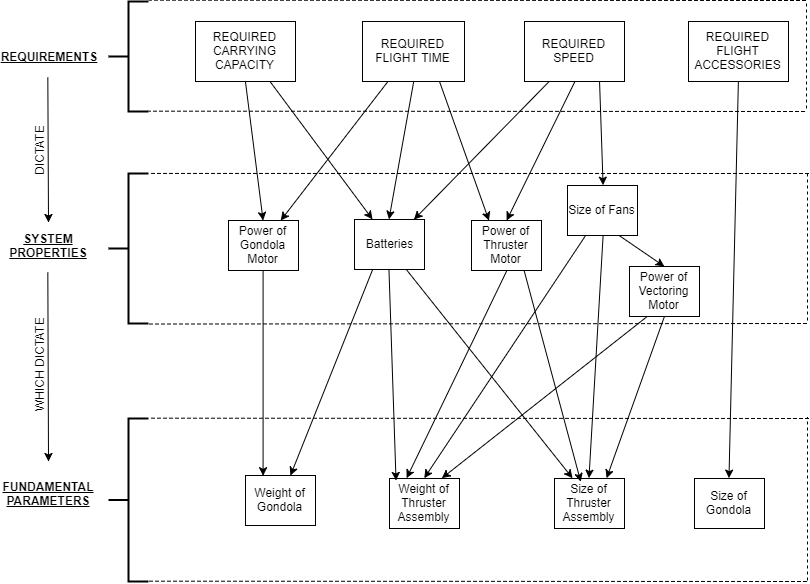
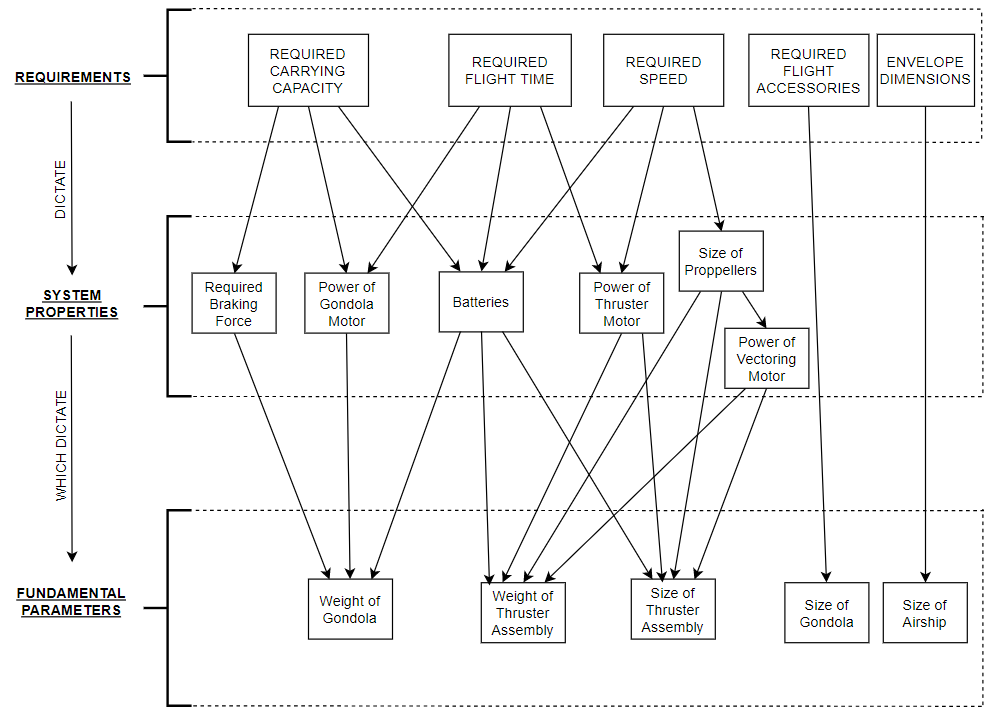
Added to Desisgn.
New renders and redid section

diff --git a/tex/chapter2ProposedDesign.tex b/tex/chapter2ProposedDesign.tex
@@ -4,12 +4,18 @@
 
 \begin{document}
 \chapter{Proposed Design}
-Introduction Paragraph
-\section{Airship}
-The airship design provided is for reference only as Dr. Lanteigne will be proceeding with his preferred design. The airship features hemispheres at each end, a cylinder attached to the front hemisphere and a cone bridging the gap from the cylinder and the other hemisphere. The length of any section of the airship is limited to 5ft as that is the width of Dr. Lanteigne's polyurethane roll. The airship will feature fixed fins for stability during forward flight. An artist's rendition of the airship can be seen in Figure ref{fig:?????????????}. 
+\section{Airship Envelope}
+The airship design provided is for reference only as Dr. Lanteigne will be proceeding with his preferred design. The airship features hemispheres at each end, a cylinder attached to the front hemisphere and a cone bridging the gap from the cylinder and the other hemisphere. The length of any section of the airship is limited to 5ft as that is the width of Dr. Lanteigne's polyurethane roll. The airship will feature fixed fins for stability during forward flight. A render of the full airship can be seen in Figure \ref{fig:fullAirship}. 
+
+\begin{figure}[H]
+	\centering
+	\includegraphics[width=\textwidth]{img/design/fullAirshipPerspective.JPG}
+	\caption{Render of Full Airship Design}
+	\label{fig:fullAirship}
+\end{figure}
+
 \section{Gondola}
-The gondola sub-assembly is the most distinguishable feature of the airship design. The gondola moves along the keel in order to rapidly pitch the airship. The assembly can be seen in  Figure \ref{fig:gondolaIsomeric}. Movement along the gondola is driven by two friction wheels which interface with the cover on the keel through the friction between the two surfaces. Bearings are used as wheel to hold the gondola on top of the keel, while the friction wheel are in contact with the bottom edge of the keel. The gondola is comprised of two half sections which each house components, such as the battery, flight controller, transmitter, GPS module and two ESCs. Figure \ref{fig:gondolaPartialSection} shows how these components are  nested one of the gondola sections. Joining the two sections is a hinge, seen in Figure  \ref{fig:gondola1ExplodedView}, which allows the gondola to bend in the centre. The hind has a flanged end and a cap that relies upon an interference fit to ensure the gondola does not slip of the hinge axially. The bend in the middle allows the gondola to overcome a more significant turning radius compared to being fixed in a straight line, which is depicted in Figure \ref{fig:gondolaBent}. Similarly to curve fitting, the more points that are used, the better fit. Braking of the gondola is accomplished by turning the friction wheels in the opposite direction and the position is held by a linear actuator, which provides force perpendicular to the keel surface. The linear actuator motion can be seen in Figure \ref{fig:linearActuatorAndMotor}. The gondola has been designed to be resistant to small amounts of water, considering the gondola will always be shielded from rainfall by the envelope, therefore total waterproofing is not required. Cable glands will be used for all surfaces perpendicular to rainfall that require waterproofing. They can be seen in Figure \ref{fig:gondola1ExplodedView}. The gondola section are made using high quality 3D prints, given their complex geometries and relatively small size.
-\\
+The gondola sub-assembly is the most distinguishable feature of the airship design. The gondola moves along the keel in order to rapidly pitch the airship. The assembly can be seen in  Figure \ref{fig:gondolaIsomeric}. Movement along the gondola is initiated by two friction wheels which interface with the polyurethane cover on the keel through the friction between the two surfaces. Bearings are used as wheels to hold the gondola in position on the keel and facilitate easy sliding, while the friction wheels are in contact with the bottom edge of the keel. 
 
 \begin{figure}[H]
 	\centering
@@ -18,12 +24,16 @@ The gondola sub-assembly is the most distinguishable feature of the airship desi
 	\label{fig:gondolaIsomeric}
 \end{figure}
 
+The gondola is comprised of two half sections which each house required flight components: The battery, flight controller, transmitter, GPS module and two ESCs. Figure \ref{fig:gondolaPartialSection} shows how these components are nested in one of the gondola sections. 
+
 \begin{figure}[H]
 	\centering
 	\includegraphics[width=.8\linewidth]{img/design/gondola/gondolaPartialSection.png}
 	\caption{Partial Section of Gondola 1 (Components)}
 	\label{fig:gondolaPartialSection}
 \end{figure}
+
+Joining the two sections is a hinge, seen in Figure  \ref{fig:gondola1ExplodedView}, which allows the gondola to bend in the centre. The hinge has a flanged end and a cap that relies upon an interference fit to ensure the hinge does not slip out of the gondola axially. The bend in the middle allows the gondola to overcome a more significant turning radius compared to being fixed in a straight line, which is depicted in Figure \ref{fig:gondolaBent}. Similarly to curve fitting, the more points that are used, the better fit. 
 
 \begin{figure}[H]
 	\centering
@@ -39,6 +49,9 @@ The gondola sub-assembly is the most distinguishable feature of the airship desi
 	\label{fig:gondolaBent}
 \end{figure}
 
+Braking of the gondola is accomplished by turning the friction wheels in the opposite direction until motion is stopped. Once this occurs, the position is held by a linear actuator, which provides force perpendicular to the keel surface. The linear actuator motion can be seen in Figure \ref{fig:linearActuatorAndMotor}. The gondola has been designed to be resistant to small amounts of water, considering the gondola will always be shielded from rainfall by the envelope, therefore total waterproofing is not required. Cable glands (see Appendix \ref{CableGland}) will be used for all surfaces perpendicular to rainfall that require waterproofing. They can be seen more clearly in Figure \ref{fig:gondola1ExplodedView}. The gondola section are made using high quality 3D prints, given their complex geometries and relatively small size.
+\\
+
 \begin{figure}[H]
 	\centering
 	\includegraphics[width=.8\linewidth]{img/design/gondola/linearActuatorAndMotor.png}
@@ -47,8 +60,8 @@ The gondola sub-assembly is the most distinguishable feature of the airship desi
 \end{figure}
 
 \subsection{Friction Wheel}
-The friction wheel must always be in contact with the keel, shown in Figure \ref{fig:frictionWheelOnGondola}. The friction wheel is made from 55D rubber, purchased off-the-shelf so it can deform when it is placed on the keel. A shaft adapter is necessary to bridge the gap between the motor shaft and the friction wheel, as the two sizes are not compatible. The shaft adapter will be 3D printed, and held in place by an existing set screw in the friction wheel. To ensure adequate pressure on the keel, the friction wheel assembly is mounted on a hinged bracket equipped with a torsion spring at the pin, as seen in Figure \ref{fig:explodedFrictionWheel}. The motor used can rotate in both directions, making it useful as a brake also. A magnetic encoder allows for accurate positioning of the gondola sections, independently allowing for redundancy between the two motors. The motor is mounted to the bracket using two nuts and two bolts. The bracket is mounted to the gondola using 2 nuts, 2 bolts and 2 washers. The bracket and hinge will be manufactured in house with a sourced torsion spring.
-\\
+The friction wheel must always be in contact with the keel, shown in Figure \ref{fig:frictionWheelOnGondola}. The friction wheel is made from 55D rubber, purchased off-the-shelf. It has a relatively low hardness SPECIFICALLY??? so it can deform when it is placed on the keel. A shaft adapter is necessary to bridge the gap between the motor shaft and the friction wheel, as the two sizes are not compatible. The shaft adapter will be 3D printed, and held in place by an existing set screw in the friction wheel. To ensure adequate pressure on the keel, the friction wheel assembly is mounted on a hinged bracket equipped with a torsion spring at the pin, as seen in Figure \ref{fig:explodedFrictionWheel}. The motor used can rotate in both directions, making it useful as a brake as well. A magnetic encoder allows for accurate positioning of the gondola sections, independently allowing for redundancy between the two motors. The motor is mounted to the bracket using two nuts and two bolts. The bracket is mounted to the gondola using 2 nuts, 2 bolts and 2 washers. The hinged bracket will be manufactured in house with aluminium, and a sourced torsion spring (see Appendix \ref{TORSIONSPRING}).
+
 \begin{figure}[H]
 	\centering
 	\includegraphics[width=.8\linewidth]{img/design/gondola/frictionWheelOnGondola.png}
@@ -61,24 +74,28 @@ The friction wheel must always be in contact with the keel, shown in Figure \ref
 	\caption{Exploded View of the Friction Assembly}
 	\label{fig:explodedFrictionWheel}
 \end{figure}
+
 \subsection{Bearings}
-Bearings are placed on top of the keel to support the weight of the gondola and counter the force applied to the keel by the friction wheel. The bearings act as wheels turning and slipping along the keel. Low weight, plastic bearings will be used. The bearings are mounted using a snap fit design, that can be seen in \ref{fig:gondola1ExplodedView}, where the bearing is held in place by a diameter slightly larger than its own. The bearing is placed over the piece, deflecting it until the bearing can slip past the overhang where the snap fit piece elastically snaps back into its original position, securely holding the bearing.
+Bearings (Appendix \ref{PBearings}) are placed on top of the keel to support the weight of the gondola and counter the force applied to the keel by the friction wheel. The bearings act as wheels turning and slipping along the keel. Low weight, plastic bearings will be used. The bearings are mounted using a snap fit design, that can be seen in Figure \ref{fig:gondola1ExplodedView}, where the bearing is held in place by a diameter slightly larger than its own. The bearing is placed over the piece, deflecting it until the bearing can slip past the overhang where the snap fit piece elastically snaps back into its original position, securely holding the bearing.
 \\
 \subsection{Linear Actuator}
-A linear actuator is housed on one of the two sections of the gondola. The linear actuator is to be activated when the gondola is not moving to hold its position on the keel. The motion can be seen in Figure \ref{fig:linearActuatorAndMotor} A custom 3D printed piece is outfitted to the top of the actuator (Keel Holder) in a V-shape to mesh ideally with the keel, as seen in Figure \ref{fig:gondola1ExplodedView}. The V-shaped 3D printed surface will then be coated with a Plasti Dip${\textregistered}$ like coating, to reduce the likelihood of tearing the polyurethane cover on the keel.  The  linear actuator chosen has a holding force of 45N without constant power, making it ideal for run time. It is also water resistant to the IP54 standard. 
+A linear actuator is housed on one of the two sections of the gondola. The linear actuator is to be activated when the gondola is not moving to hold its position on the keel. The motion can be seen in Figure \ref{fig:linearActuatorAndMotor} A custom 3D printed piece is outfitted to the top of the actuator (Keel Holder) in a V-shape to mesh ideally with the keel, as seen in Figure \ref{fig:gondola1ExplodedView}. The V-shaped 3D printed surface will then be coated with a Plasti Dip${\textregistered}$ like coating, to reduce the likelihood of tearing the polyurethane cover on the keel.  The  linear actuator chosen has a holding force of variety of holding forces without constant power, making it ideal for run time. It is also water resistant to the IP54 standard. 
 \\
 \subsection{Door and Components}
-The gondola features a sliding door (the motion can be seen in Figure \ref{fig:gondola1ExplodedView}), to ease the process of component charging and changing. The door relies upon an interference fit to stay in place and components are placed on top of the door once it is half closed. See Figure \ref{fig:gondolaPartialSection} (selective cross-section). The door will be 3D printed also.
+The gondola features a sliding door (the motion can be seen in Figure \ref{fig:gondola1ExplodedView}), to ease the process of component charging and changing. The door relies upon an interference fit to stay in place. Components are inserted into the gondola while it is off the keel and secured by double sided tape. The door is inserted and the gondola is reinserted onto the keel. See Figure \ref{fig:gondolaPartialSection} (selective cross-section). The door will also be 3D printed.
 \\
 \section{Keel}
-Figure \ref{fig:keelAssemblyCompressedThruster} shows the keel assembly in a condensed form. The two straight and one curved sections of the keel and the envelope support originate from Dr. Lanteigne's design. Sections of the keel are joined using connectors that rely on interference fits, also designed by Dr. Lanteigne, but modified and machined for better material properties. The envelope support slides into a slot on the keel connectors remaining in position by bottoming out. The surface will also be lathered with epoxy to prevent the piece from falling out when the airship is perpendicular to the ground. Thrusters are mounted on carbon fibre arms that also slide into the connector, maintaining position by bottoming out as well. The section shown in Figure \ref{fig:thrusterArmConnectorCrossSection} displays the bottoming out and Figure \ref{fig:thrusterArmConnectorPiece} shows the fit. 3D printed end stops are inserted in either end of the keel using an interference fit identical to the connectors. The end stop design can be seen in Figure \ref{fig:keelEndCap}. These stops are slightly larger than the size of the keel, effectively interfering with the gondola wheels, keeping it from rolling off the ends of the keel. All geometries in the keel assembly are fixed in relation to the airship with the exception of the thrusters.
-\\
+Figure \ref{fig:keelAssemblyCompressedThruster} shows the keel assembly in a condensed form. The two straight and one curved sections of the keel and the envelope support originate from Dr. Lanteigne's design. Sections of the keel are joined using connectors that rely on interference fits, also designed by Dr. Lanteigne, but modified and machined for better material properties, as the proposed design involves much higher forces being applied to the connector pieces than the previous design. 
+
 \begin{figure}[H]
 	\centering
 	\includegraphics[width=.8\linewidth]{img/design/keel/keelAssemblyCompressedThruster.png}
 	\caption{Overall Keel Assembly (Compressed)}
 	\label{fig:keelAssemblyCompressedThruster}
 \end{figure}
+
+The envelope support slides into a slot on the keel connectors remaining in position by bottoming out. The surface will also be lathered with epoxy to prevent the piece from falling out when the airship is perpendicular to the ground (see Appendix \ref{adhesion} for adhesion calculations). Thrusters are mounted on carbon fibre arms that also slide into the connector, maintaining position by bottoming out as well. The section shown in Figure \ref{fig:thrusterArmConnectorCrossSection} displays the bottoming out and Figure \ref{fig:thrusterArmConnectorPiece} shows the fit.
+
 \begin{figure}[H]
 	\centering
 	\includegraphics[width=.9\linewidth]{img/design/keel/thrusterArmConnectorCrossSection.png}
@@ -89,8 +106,11 @@ Figure \ref{fig:keelAssemblyCompressedThruster} shows the keel assembly in a con
 	\centering
 	\includegraphics[width=.9\linewidth]{img/design/keel/thrusterArmConnectorPiece.png}
 	\caption{Connector Piece Assembling}
-	\label{fig:fig:thrusterArmConnectorPiece}
+	\label{fig:thrusterArmConnectorPiece}
 \end{figure}
+
+ 3D printed end stops are inserted in either end of the keel using an interference fit identical to the connectors. The end stop design can be seen in Figure \ref{fig:keelEndCap}. These stops are slightly larger than the size of the keel, effectively interfering with the gondola wheels, keeping it from rolling off the ends of the keel. All geometries in the keel assembly are fixed in relation to the airship with the exception of the thrusters.
+
 \begin{figure}[H]
 	\centering
 	\includegraphics[width=.8\linewidth]{img/design/keel/keelEndCap.png}
@@ -100,13 +120,34 @@ Figure \ref{fig:keelAssemblyCompressedThruster} shows the keel assembly in a con
 
 
 \subsection{Thrusters}
-The thruster arms are made from carbon fibre that will be made in house by laying sheets of carbon fibre on a balloon mold. A CNC machined aluminum plate is attached to the U-shaped carbon fibre arms by welding a machined cap piece onto the plate, then inserting the carbon fibre arm into it and applying epoxy. The aluminum plate and bearing arms are built in a way that will interfere with the airship, causing compression of the helium and polyurethane sheet. This will enable contact between the airship and plate, increasing the surface area for the double sided tape union. This mounting technique can be seen in Figure \ref{fig:thrusterOnKeel} The full assembly can be seen in Figure \ref{fig:thrusterAssembly}.  Components are housed inside a 3D printed casing that features a 3D printed door, similar to the gondola. Figure \ref{fig:plateAssembly} displays how the components are mounted on the plate. The components for each thruster include, a receiver, a battery and a BESC. The components are located above the centre of volume of the airship in the z-direction, raising the centre of mass. These components are well covered from the rain and any splashing water. With the casing above the servo motor, the servo motor is shielded from rain in normal flying conditions.\\
+The thruster arms are made from carbon fibre that will be made in house by laying sheets of carbon fibre on a balloon mould. A CNC machined aluminium plate is attached to the U-shaped carbon fibre arms by welding a machined cap piece onto the plate, then inserting the carbon fibre arm into it and applying epoxy. The aluminium plate and bearing arms are built in a way that will interfere with the airship, causing compression of the helium and polyurethane sheet. This compression is shown in Figure \ref{fig:envelopeDeformation}.
+
+\begin{figure}[H]
+	\centering
+	\includegraphics[width=.8\linewidth]{img/design/thruster/envelopeDeformation.JPG}
+	\caption{Deformation of the Airship Envelope bt the Thruster Arms}
+	\label{fig:envelopeDeformation}
+\end{figure}
+
+The compression will enable contact between the airship and plate, increasing the surface area for the double sided tape union. The edges of the aluminium plate will be bevelled to ensure that the plate does not pierce the envelope (see Figure \ref{fig:roundedEdges}). All analysis performed in this report assumes that there is no support from the double sided tape at the plate, so that estimates of stresses are very conservative. The thruster arms will therefore be designed to be able to withstand any loading condition without support from the envelope.\\
+
+\begin{figure}[H]
+	\centering
+	\includegraphics[width=.5\linewidth]{img/design/thruster/roundedEdges.JPG}
+	\caption{Close-up of Rounded Edges used to Protect the Envelope from Piercing}
+	\label{fig:roundedEdges}
+\end{figure}
+
+The mounting of the plate to the thruster arm can be seen in Figure \ref{fig:thrusterOnKeel} The full assembly can be seen in Figure \ref{fig:thrusterAssembly}.  
+
 \begin{figure}[H]
 	\centering
 	\includegraphics[width=.8\linewidth]{img/design/thruster/thrusterOnKeel.png}
 	\caption{Thruster Assembly on Thruster Arm}
 	\label{fig:thrusterOnKeel}
 \end{figure}
+
+Components are housed inside a 3D printed casing that features a 3D printed door, similar to the gondola. Figure \ref{fig:plateAssembly} displays how the components are mounted on the plate. The components for each thruster include a receiver, a battery and a BESC. The components are located above the centre of volume of the airship in the z-direction, raising the centre of mass, allowing for better pitching properties. These components are well covered from the rain and any splashing water. With the casing above the servo motor, the servo motor is shielded from rain in normal flying conditions.
 
 \begin{figure}[H]
 	\centering
@@ -115,6 +156,7 @@ The thruster arms are made from carbon fibre that will be made in house by layin
 	\label{fig:thrusterAssembly}
 \end{figure}
 
+
 \begin{figure}[H]
 	\centering
 	\includegraphics[width=.8\linewidth]{img/design/thruster/plateAssembly.png}
@@ -122,15 +164,25 @@ The thruster arms are made from carbon fibre that will be made in house by layin
 	\label{fig:plateAssembly}
 \end{figure}
 
- A servo motor is mounted to the plate using aluminum blocks along with off-the-shelf assembly, as seen in Figure \ref{servoAssembly}. A bearing and custom machined bracket are added to the off-the-shelf to support the shaft attached to the servo motor. Figure \ref{fig:shaftAssembly} shows the bearing bracket, bearing and shaft. The custom machined bracket features a shoulder to enable the shaft to support minimal and unexpected axial loads as well as to ease in the pressing of the bearing into the hub. figure ref{fig:??????????????????} shows the shoulder. The shaft will be machined to hollow, threaded on the outside and a shoulder that fits into the bearing inner race. The shaft is mounted to the spline on the servo, and an M3 screw is placed inside to shaft, axially fastening it to the servo, as the servo comes standard with a tapped hole. Several screws are used to securely fasten the servo to the supporting parts.
- \\
+ The servo motor is mounted to the plate using aluminium mounting blocks along with off-the-shelf assembly, as seen in Figure \ref{fig:servoAssembly}. The mounting blocks and arm cap are to be welded onto the mounting plate as shown in Figure \ref{fig:plateAssembly}.
  
- \begin{figure}[H]
+  \begin{figure}[H]
  	\centering
  	\includegraphics[width=.8\linewidth]{img/design/thruster/servoAssembly.png}
  	\caption{Servo Mounting Exploded View}
  	\label{fig:servoAssembly}
  \end{figure}
+ 
+ A bearing and custom machined bracket are added to the off-the-shelf to support the shaft attached to the servo motor. Figure \ref{fig:shaftAssembly} shows the bearing bracket, bearing and shaft. The custom machined bracket features a shoulder to enable the shaft to support minimal and unexpected axial loads as well as to ease in the pressing of the bearing into the hub. Figure \ref{fig:bearingShoulder} shows the shoulder. 
+ 
+   \begin{figure}[H]
+ 	\centering
+ 	\includegraphics[width=.4\linewidth]{img/design/thruster/bearingLip.JPG}
+ 	\caption{Cross Section of Bearing Shoulder}
+ 	\label{fig:bearingShoulder}
+ \end{figure}
+ 
+ The shaft will be machined to be hollow and threaded on the outside. It will be manufactured using a Nylon 6, for its corrosion resistance, ease of machining, and low density. It will include a shoulder that fits into the bearing inner race. The shaft is mounted to the spline on the servo, and an M3 screw is placed inside to shaft, axially fastening it to the servo, as the servo comes standard with a tapped hole. Several screws are used to securely fasten the servo to the supporting parts, all of which are shown in Figure \ref{fig:shaftAssembly}.
  
   \begin{figure}[H]
  	\centering
@@ -139,7 +191,7 @@ The thruster arms are made from carbon fibre that will be made in house by layin
  	\label{fig:shaftAssembly}
  \end{figure}
  
-The propeller motor is mounted on a machined propeller mounting bracket with tapped holes using screws, which is mounted on the shaft using washers and nuts. Figures \ref{fig:mountAssembly} and \ref{fig:propAssembly} show how the propeller and related parts will be mounted. The propeller is mounted to the motor using a standard interference fit, given that these are both off-the-shelf parts. The propeller and motor are protected by a lightweight encasement (MANUFACTURED HOW????) that is mounted to the shaft by squeezing the plastic between a shoulder on the shaft and washer/nut combination. The encasement provides shielding of the propeller motor during forward flight conditions.\\
+The propeller motor is mounted on a machined aluminium propeller mounting bracket with tapped holes using screws, which is mounted on the shaft using washers and nuts, shown in Figure \ref{fig:mountAssembly}.
 
  \begin{figure}[H]
 	\centering
@@ -148,6 +200,8 @@ The propeller motor is mounted on a machined propeller mounting bracket with tap
 	\label{fig:mountAssembly}
 \end{figure}
 
+ Figure \ref{fig:propAssembly} shows how the propeller and related parts will be mounted. The propeller is mounted to the motor using a standard interference fit, given that these are both off-the-shelf parts. The propeller and motor are protected by a lightweight plastic encasement, cut from a sheet of TYPE OF PLASTIC?? that is mounted to the shaft by squeezing the plastic between a shoulder on the shaft and washer/nut combination. All washers and nuts on the Nylon shaft are also made of nylon. The encasement provides shielding of the propeller motor during forward flight conditions.
+
 \begin{figure}[H]
 	\centering
 	\includegraphics[width=.8\linewidth]{img/design/thruster/propAssembly.png}
@@ -155,16 +209,8 @@ The propeller motor is mounted on a machined propeller mounting bracket with tap
 	\label{fig:propAssembly}
 \end{figure}
 
-\section{Wiring}
-Wiring for the airship is relatively straight forward as each motor assembly has an  independent power supply. Transmitters and receiver eliminate the need for wiring throughout the airship. Avoiding communication wiring significantly reduces the likelihood of wires tangling and causing jamming of parts. For the gondola, Figure \ref{fig:gondolaWiring} shows how wires will be routed. Components shown are rough dimensions taken from the specifications for each part, and include the start of the tails of the wires. Waterproofing is provided by cable glands for surfaces perpendicular to the fall of rain. Surfaces parallel to the fall of rain do not have waterproofing as these are not exposed to much water. The wires routed between the gondola will be provided with slack so the gondola can fold up to 10$^{\circ}$.
-\\
-
-\begin{figure}[H]
-	\centering
-	\includegraphics[width=.8\linewidth]{img/design/gondola/gondolaWiringSchematic.png}
-	\caption{Gondola Component Wiring Schematic}
-	\label{fig:gondolaWiringSchematic}
-\end{figure}
+\section{Wiring and Weatherproofing}
+Wiring for the airship is relatively straight forward as each motor assembly has an  independent power supply. Transmitters and receivers eliminate the need for wiring throughout the airship. Avoiding communication wiring significantly reduces the likelihood of wires tangling and causing jamming of parts. For the gondola, Figure \ref{fig:gondolaWiring} shows how wires will be routed. 
 
 \begin{figure}[H]
 	\centering
@@ -173,7 +219,25 @@ Wiring for the airship is relatively straight forward as each motor assembly has
 	\label{fig:gondolaWiring}
 \end{figure}
 
-The thruster assembly is wired similarly to the gondola, with wires coming out of the component casing. The wire is then routed through the thruster shaft. Figure \ref{fig:thrusterWiring} shows a diagram of the thruster wiring. Waterproof cannot be completed for the propeller motor as it must be exposed to the air to work effectively. Although the propeller motor is not waterproofed, it is cover by falling rain from the propeller encasement in forward flight operations.
+Components shown are rough dimensions taken from the specifications for each part, and include the start of the tails of the wires, meaning that the size of the components in the Figures are larger than the actual components will be. As a result, the Figures look overcrowded for wiring, but the models are specifically oversized to account for room for wiring. Waterproofing is provided by cable glands for surfaces perpendicular to the fall of rain (see Appendix \ref{CableGland}). Surfaces parallel to the fall of rain do not have waterproofing as these are not exposed to much water. The wires routed between the gondola will be provided with slack so the gondola can fold up to 10$^{\circ}$. Holes between the two gondolas allow for the wires to be routed. A schematic of the gondola wiring can be seen in Figure \ref{fig:gondolaWiringSchematic}.
+
+\begin{figure}[H]
+	\centering
+	\includegraphics[width=.8\linewidth]{img/design/gondola/gondolaWiringSchematic.png}
+	\caption{Gondola Component Wiring Schematic}
+	\label{fig:gondolaWiringSchematic}
+\end{figure}
+
+The thruster assembly is wired similarly to the gondola, with wires coming out of the component casing. Most of the wiring is located inside the waterproof component casing. 2 sets of wires are routed out of the encasement: one to the vectoring motor, and one through the thruster shaft for the propeller motor. Figure \ref{fig:thrusterWiring} shows a diagram of the thruster wiring.
+
+\begin{figure}[H]
+	\centering
+	\includegraphics[width=.8\linewidth]{img/design/thruster/thrusterWiring.png}
+	\caption{Thruster Wiring}
+	\label{fig:thrusterWiring}
+\end{figure}
+
+ Waterproofing cannot be completed for the propeller motor as it must be exposed to the air to work effectively. Although the propeller motor is not waterproofed, it is cover by falling rain from the propeller encasement in forward flight operations. A schematic of the wiring for the thruster assembly is shown in Figure \ref{fig:thrusterWiringSchematic}.
 
 \begin{figure}[H]
 	\centering
@@ -182,11 +246,6 @@ The thruster assembly is wired similarly to the gondola, with wires coming out o
 	\label{fig:thrusterWiringSchematic}
 \end{figure}
 
-\begin{figure}[H]
-	\centering
-	\includegraphics[width=.8\linewidth]{img/design/thruster/thrusterWiring.png}
-	\caption{Thruster Wiring}
-	\label{fig:thrusterWiring}
-\end{figure}
+All metal components are manufactured from aluminium, due to its relatively low weight as well as its resistance to corrosion.
 
 \end{document}

diff --git a/main.tex b/main.tex
@@ -177,11 +177,14 @@ Alex Pennell - 7334789\\[0.4cm]
 \chapter*{Abstract}
 Volume 1 of the Capstone Report contains the main body of the report, including all design and analysis information. Volume 2 contains all appendices.\\
 
-The aim of this design was to create a system for control of an unmanned airship. It was achieved by using a gondola as a ballast to move the centre of mass in relation to the centre of volume and initiate pitch changes. The design features stationary thrusters located in the XY plane of the airship, attached by carbon fibre arms which are secured to a pre-existing keel. The keel acts as a rail for the gondola to move back and forth on. The gondola contains control equipment used to communicate with the thruster assembly wirelessly, as well as drive the gondola to the desired position. Passive breaking is highly desirable and achieved through a linear actuator with a holding force with no signal. Vectoring of the propellers is achieved by a servo motor mounted to a plate which connects to the thruster arms.\\
+The aim of this design was to create a system for control of an unmanned airship. It was achieved by using a gondola as a ballast to move the centre of mass in relation to the centre of volume and initiate pitch changes. The design features stationary thrusters located in the XY plane of the airship, attached by carbon fibre arms which are secured to a carbon fibre keel. The keel acts as a rail for the gondola to move back and forth on. The gondola contains control equipment used to communicate with the thruster assembly wirelessly, as well as drive the gondola to the desired position. Passive breaking is achieved through the use of a linear actuator that can generate a holding force with no input power. Vectoring of the propellers is achieved by a servo motor mounted to a plate which connects to the thruster arms.\\
 
-The dimensions of the airship may vary as it is not manufactured yet, and input parameters are selected by the user, meaning that the whole airship must be scalable and feasible. A GUI is implemented in MATLAB to ensure that the user selects values which are feasible and produces SolidWorks Models that can be used as reference for manufacturing and design.\\
+The dimensions of the airship may vary as it is not manufactured yet, and input parameters are selected by the user, meaning that the whole airship must be scalable, and its design be feasible. A GUI is implemented in MATLAB to ensure that the user selects values which are feasible and produces SolidWorks Models that can be used as reference for manufacturing and design.\\
 
-iv.Illustration of the final design????
+\begin{figure}[H]
+	\centering
+	\includegraphics[width=.85\linewidth]{img/general/fullPerspective.JPG}
+\end{figure}
 
 \pagebreak
 

diff --git a/tex/chapter1Introduction.tex b/tex/chapter1Introduction.tex
@@ -20,7 +20,7 @@ The research project led by Dr. Eric Lanteigne involves designing a system to al
 %	CRITERIA AND RESTRICTIONS
 %---------------------------------------------------------------------
 \section{Criteria and Restrictions}
-The propellers will be in the X-Y plane, in line with the centre of volume. This eliminates any moments from the propellers that lead to imbalance and unwanted pitch variations. The gondola will be able to move along the varying curvature of the keel using a hinged-gondola. The driving mechanism will be two friction wheels with the additional support of 4 driven bearings. The cross-section of the keel is diamond-shaped, however it is not torsionally constant, therefore the vertexes are not coincident on the curved section. Once the airship has been constructed, a Special Flight Operations Certificate (SFOC) issued by Transport Canada will be necessary in order to fly the airship lawfully.
+The propellers will be in the X-Y plane, in line with the centre of volume. This eliminates any moments from the propellers that lead to imbalance and unwanted pitch variations. The gondola will be able to move along the varying curvature of the keel using a hinged-gondola. The driving mechanism will be two friction wheels with the additional support of 4 driven bearings. The cross-section of the keel is diamond-shaped, however it is not torsionally constant due to imperfections in the manufacturing process. This means the vertexes are not coincident on the curved section. Once the airship has been constructed, a Special Flight Operations Certificate (SFOC) issued by Transport Canada will be necessary in order to fly the airship lawfully.
 
 %---------------------------------------------------------------------
 %	PARAMETERIZATION OUTLINE
